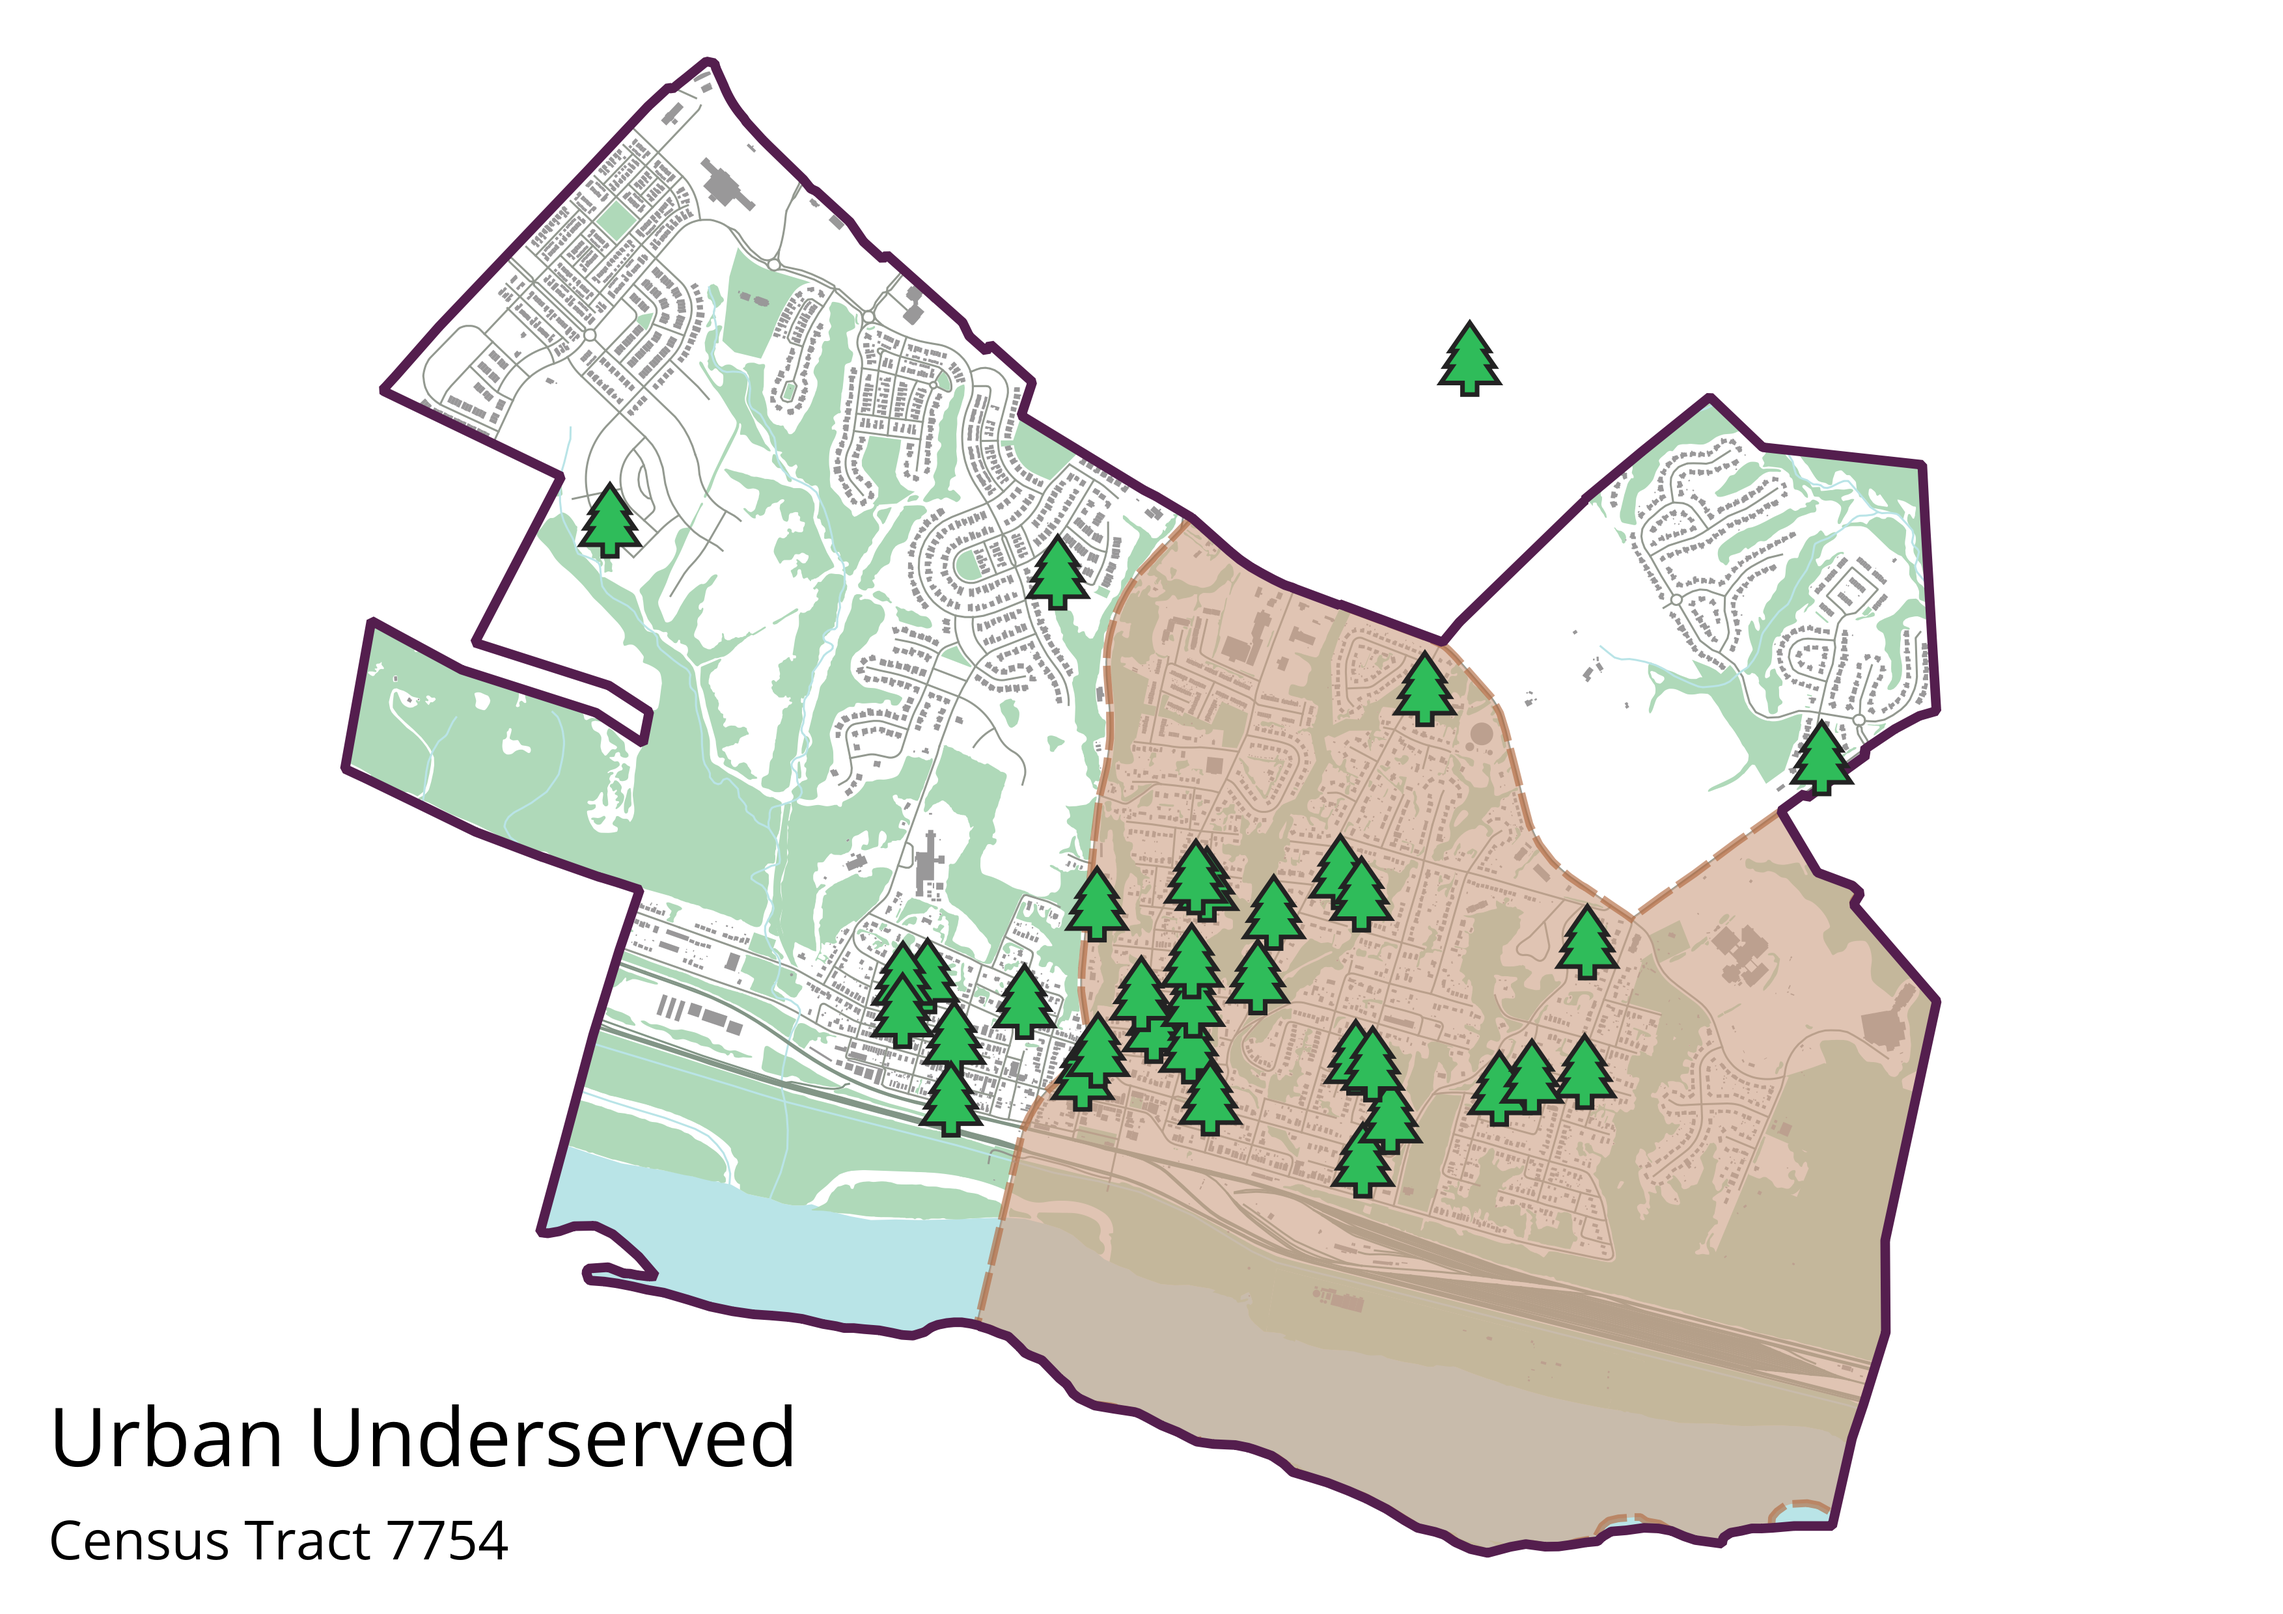
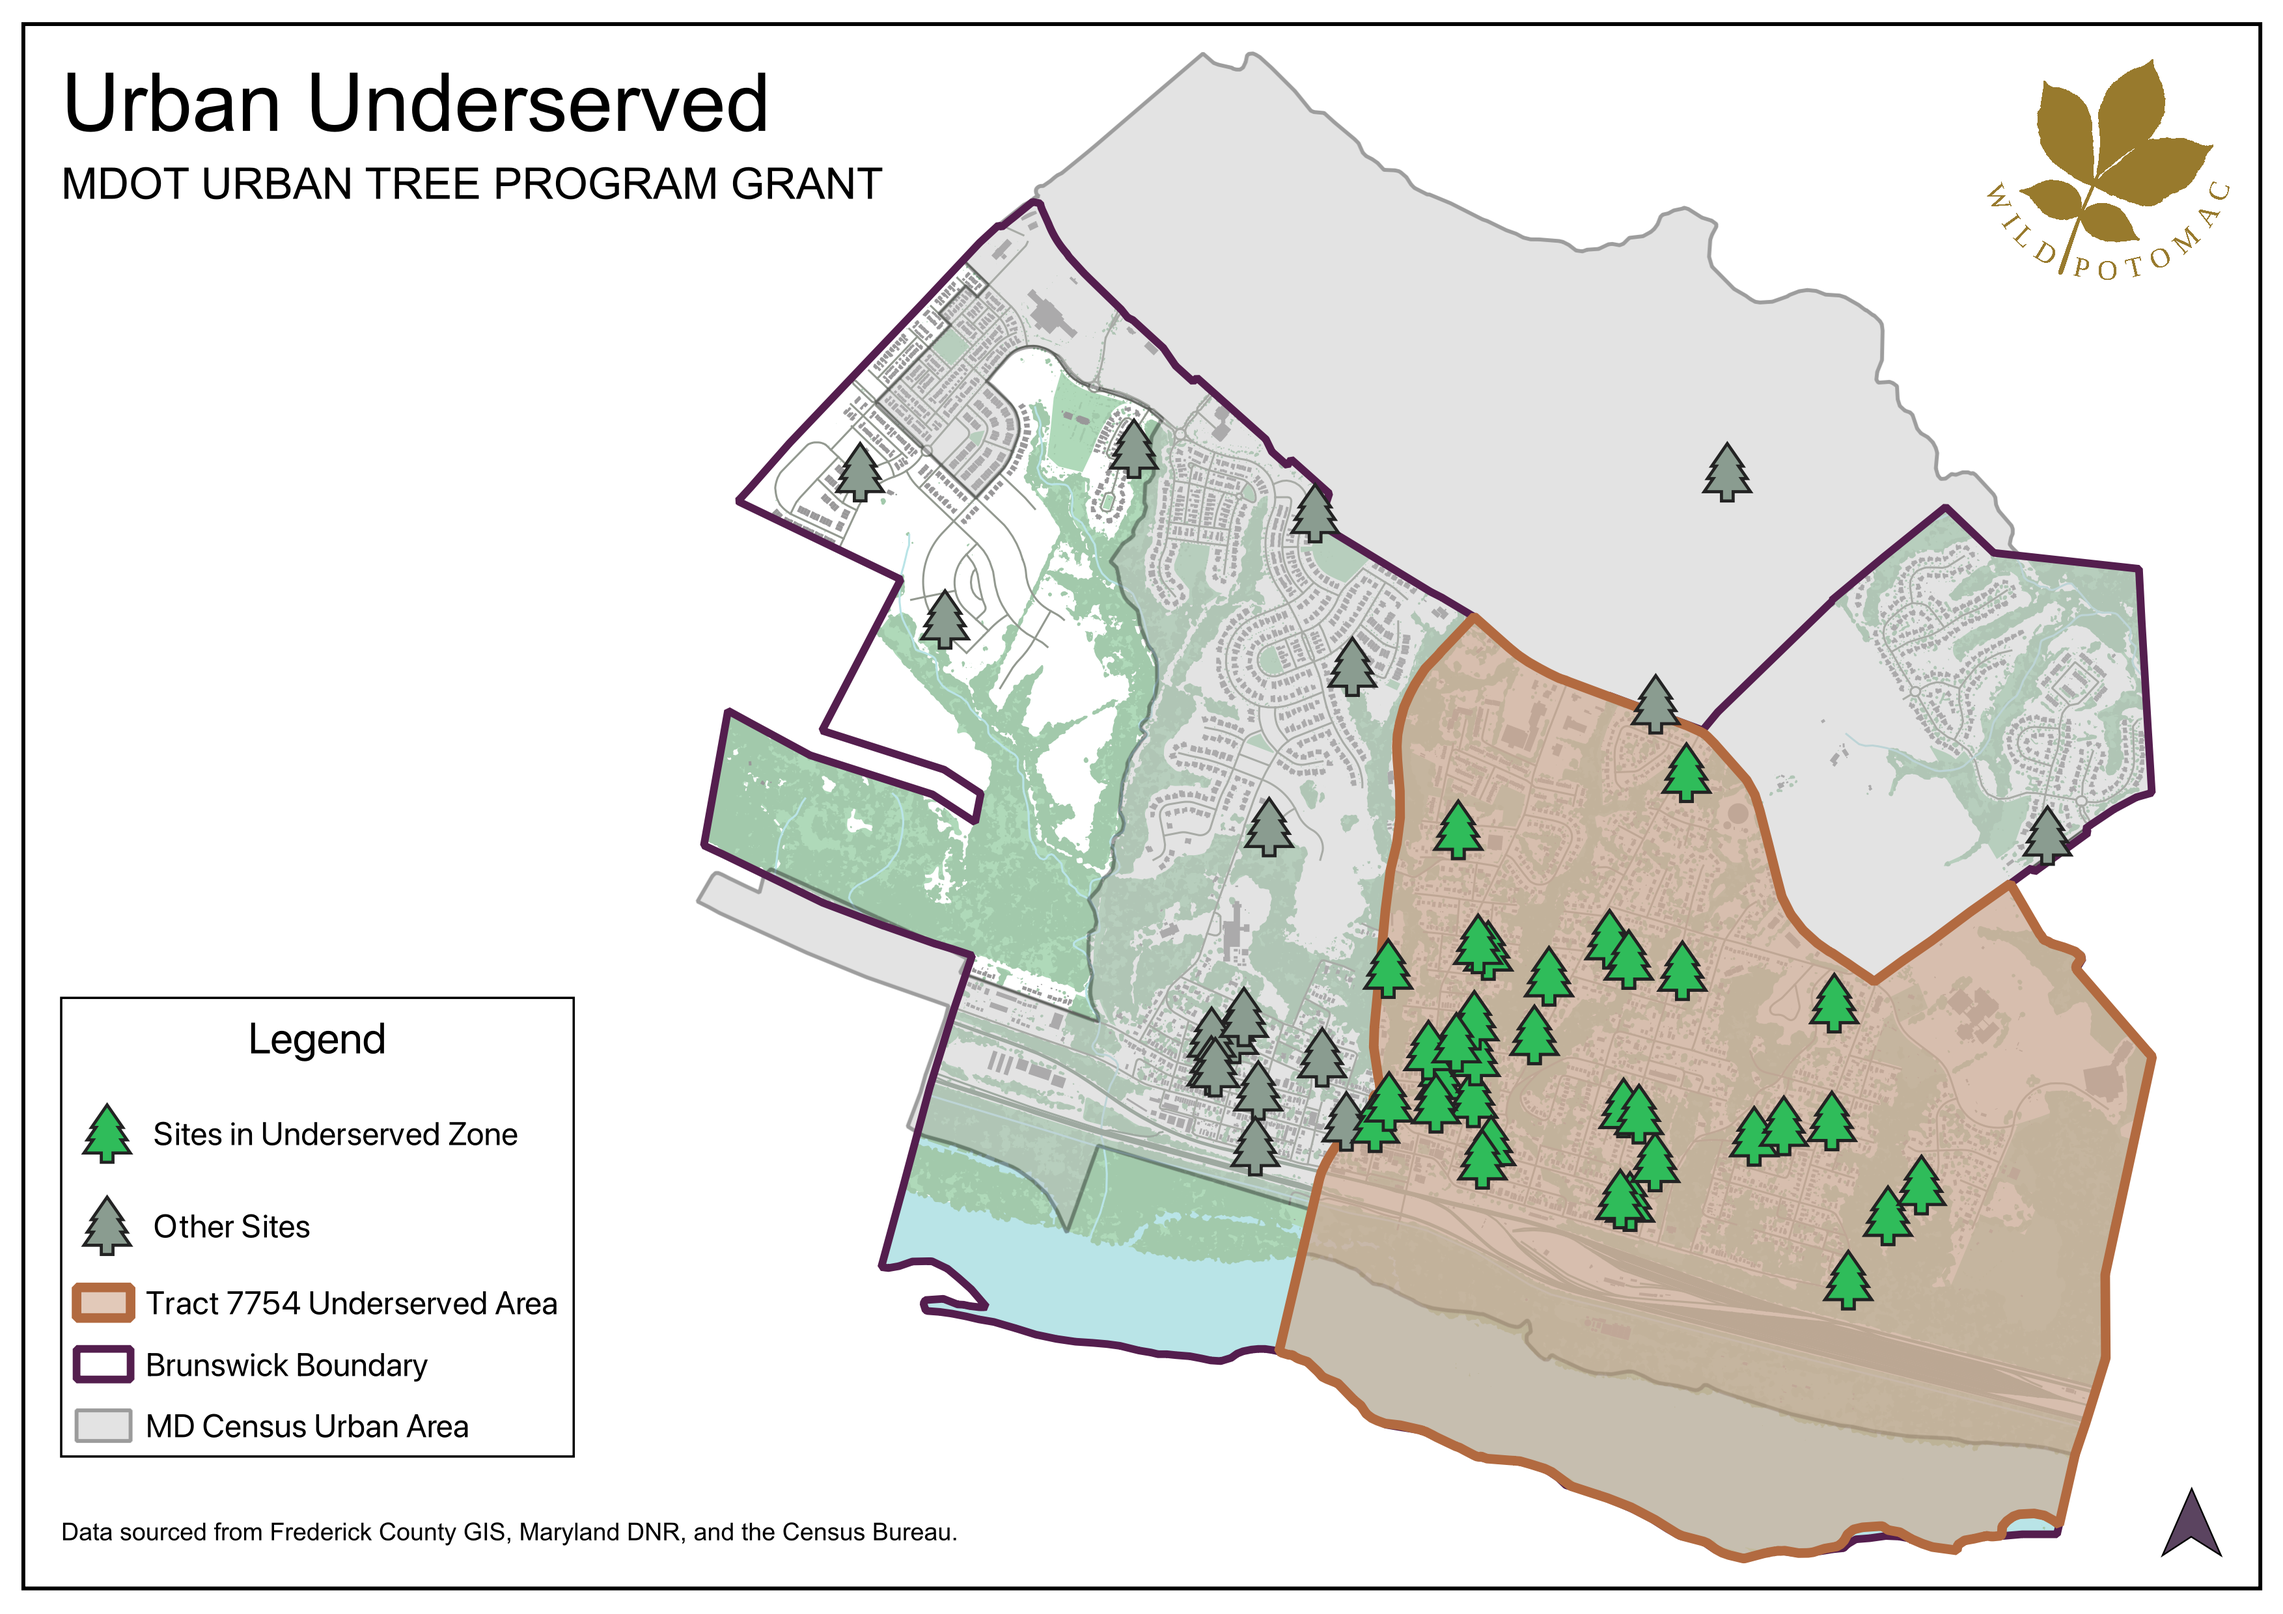
wp & project update

diff --git a/content/posts/wp-trees/.md b/content/posts/wp-trees/.md
@@ -1,26 +1,30 @@
 ---
-title: Wild Potoamac
-description: Getting grants to extend the canopy in Brunswick.
-date: 2025-06-03
+title: Wild Potomac
+description: Extending tree canopy in Brunswick.
+date: 2025-07-01
 tags: post
 layout: /layouts/posts.njk
-eleventyExcludeFromCollections: true
+eleventyExcludeFromCollections: false
 ---
 
-# Mapping with Wild Potomac
-Bird City Brunswick is working with [Wild Potomac](https://www.wildpotomac.org/) to win a grant that will fund tree plantings the city.
+# Wild Potomac
+Through Bird City Brunswick, I've been working with [Wild Potomac](https://www.wildpotomac.org/) on a grant that will fund tree plantings across the city.
 
-Below are the overview maps I put together on Saturday morning. We will get these shopped up and included into the grant documentation. Publishing these via the Bird City Brunswick ArcGIS Online account may not work because of how it is currently licensed. Standing up infrastructure with GeoServer and using QGIS for stylig is the goal next I think. 
+Below are the overview maps I put together for the grant. They were built in QGIS and communicate the planting sites that are in or out of the various zones we were targeting in the grant. 
 
-<img src="equity_zones.png" alt="Equity">
+<img src="Site_Plan.png" alt="Site Plan">
+<h3>51 of the 60 Google Form responses were selected as potential planting sites. </h3>
 <br/>
-<img src="transportation_pois.png" alt="Equity">
+<img src="Urban_Underserved.png" alt="Urban Underserved">
 <br/>
-<img src="urban_underserved.png" alt="Equity">
+<img src="Tree_Equity_Zones.png" alt="Tree Equty">
+<br/>
+<img src="MDOT_Distances.png" alt="MDOT Distances">
 
-# FOSS4G At Home
-Bird City has given me a stable stream of solid projects.
-Buidling a map for Springfest was good because it meant we had something to start from for this grant. We only need to demonstrate how the planting sites coincide with the areas identified by DNR. Getting quick exports for review (above) was easy with the layout tools in QGIS. I suspect that I will not use Inkscape for this, but will instead work on some basic Python tooling with geopandas. I'm still trying to figure out how I want to work with PostGIS/GeoServer locally, so for this project, since it was relatively simple, I just did my processing in QGIS and saved the outputs to a GeoPackage. Importing my data into PostgreSQL, running via Docker, and doing the calculations was my approach for doing the canopy analysis. 
+# FOSS4G
+This is the second project in the past couple months where I've really spent time figuring out my baseline [FOSS4G](https://wiki.osgeo.org/wiki/FOSS4G) tools.
+
+Having built a print map for Springfest, I wasn't starting from scratch for this grant with Wild Potomac. QGIS continues to be excellent for quickly generating maps. This time I didn't use Inkscape and stuck with exporting simple layouts from QGIS. I'm still in the process of figuring out how much I want to use PostGIS through Docker in my work. Since this project was relatively simple, working out of a single GeoPackage and doing a mix of manual work in QGIS and writing some Python code was good enough. Figuring out how much of the map production pipeline I can automate in QGIS is likely my next homework.
 
 # Google Forms
-People love Google Forms. It might be worth talking about basic geocoding problems and why something like S123 is so useful in this space. 
+People love Google Forms. It's free and simple to build something quickly. However, dealing with the free-form text that was used for the planting sites (i.e., home addresses), meant some extra cleanup before we could make maps. For this project, I just wrote a simple script that geocoded (via the Google API) the address field. Using something like Survey 123 would have simplified my life a bit, but the associated cost is prohibitive. Figuring out how Google Forms, or anotherfree/cheap equivalent, could have the spatial piece as a first-class attribute by default would be excellent.

diff --git a/content/projects.md b/content/projects.md
@@ -12,9 +12,13 @@ layout: /layouts/root.njk
       <a href="https://birdcitybrunswick.org">Bird City Brunswick</a>
       <span>Communication tools for local sustainability activists</span>
     </li>
-        <li>
+    <li>
       <a href="https://www.giscorps.org/art-forces-373/">Art Forces</a>
       <span>Mural mapping to tell community stories</span>
+    </li>
+    <li>
+      <a href="https://www.giscorps.org/sbcsar-359/">Search & Rescue</a>
+      <span>Common Operating Picture for Santa Barbara</span>
     </li>
   </ul>
 </div>
